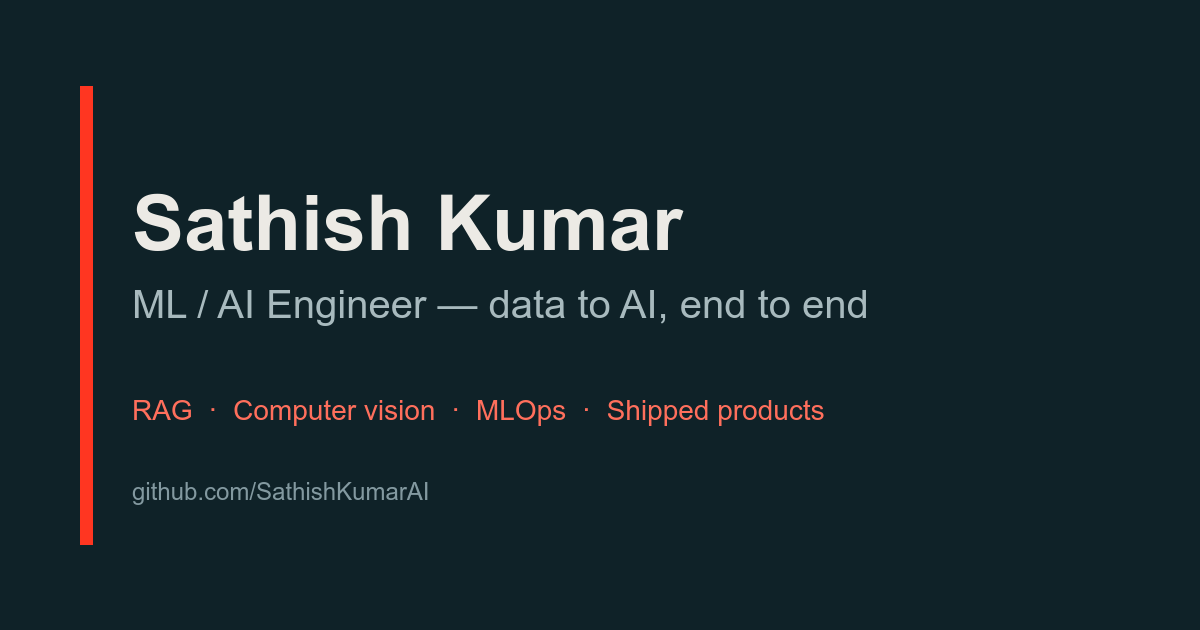
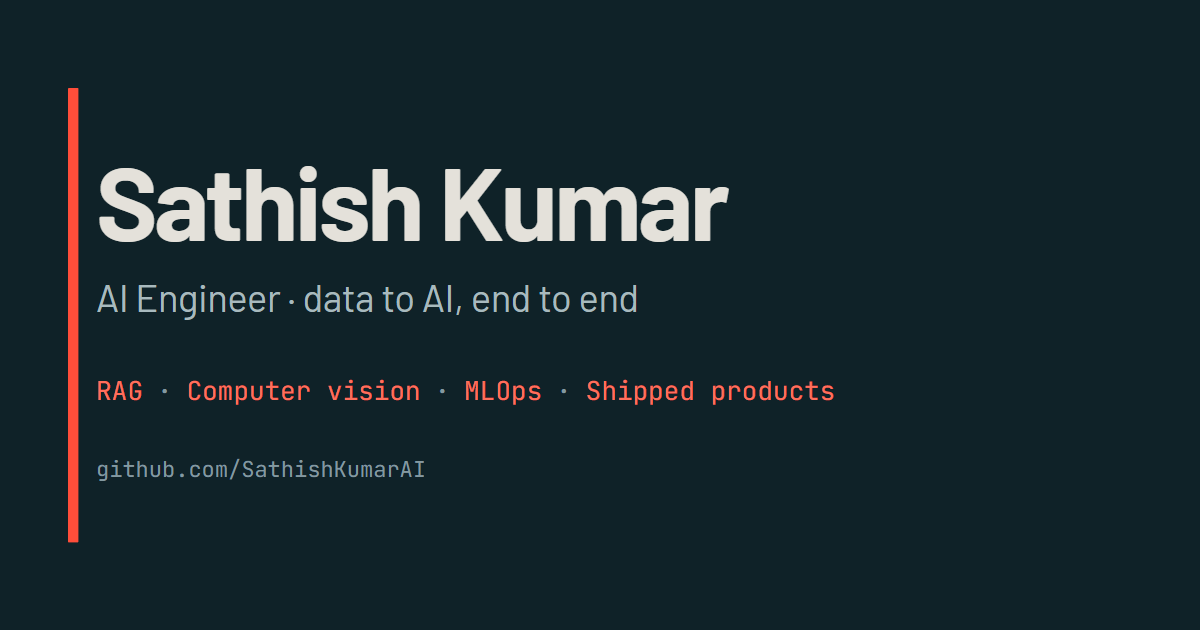
refactor(identity): one title everywhere, AI Engineer, and a regenerable og card
The title was already decided in ee1eebb: "AI Engineer", confirmed by the
owner. It had only reached `role` in constants, so eleven other places still
said "ML / AI Engineer" and the site introduced itself two different ways
depending on where you looked.

Now one string: document title, og:title, og:image:alt, JSON-LD jobTitle and
description, the noscript fallback, the hero lede, the navbar identity,
llms.txt, and both name and description in site.webmanifest. Zero occurrences
of "ML / AI" left anywhere in src, index.html, public or the docs.

Two places deliberately keep the wider wording, because they are not the title
and narrowing them would cost real inbound:

- `Contact.jsx` still reads "Open to data engineering, data science, ML, and AI
  engineering roles". That sentence enumerates four disciplines he will take
  work in. What he calls himself and what he will be hired for are different
  decisions, and this is the one place the second one is stated.
- `constants.openTo` did change, to "AI engineering roles", because it sits in
  the same block as `role` and reads as identity rather than as breadth.

The social card had to be rebuilt, and the reason is the interesting part. A
grep cannot read a PNG. `public/og.png` had "ML / AI Engineer" painted into it
and no source anywhere in the repo, so every string on the site could be
updated, verified, and shipped while the image every link preview shows kept
[…]

Changed region(s): [[0.0308, 0.1206, 0.74, 0.8746]]

diff --git a/3d_portfolio/docs/og-card.html b/3d_portfolio/docs/og-card.html
@@ -1,0 +1,108 @@
+<!doctype html>
+<html lang="en">
+<head>
+<meta charset="utf-8" />
+<title>og:image source</title>
+<!--
+  SOURCE FOR public/og.png. Not served, not built, not linked from the app.
+
+  The old og.png had no source in the repo, so when the title changed from
+  "ML / AI Engineer" to "AI Engineer" every string on the site updated and the
+  social card kept the old one, silently, because a grep cannot read a PNG.
+  This file is the fix: the card is regenerable.
+
+  To regenerate:
+    1. open this file in a browser
+    2. capture the page at exactly 1200x630, no device-pixel-ratio scaling
+    3. save over 3d_portfolio/public/og.png
+    4. check index.html still says og:image:width 1200 / og:image:height 630
+
+  Colours are the dark-theme tokens from src/index.css, hard-coded because this
+  page is not part of the app and must render standalone with no build step.
+  Type is Barlow and JetBrains Mono, same as the site, from Google Fonts.
+-->
+<link rel="preconnect" href="https://fonts.googleapis.com" />
+<link rel="preconnect" href="https://fonts.gstatic.com" crossorigin />
+<link href="https://fonts.googleapis.com/css2?family=Barlow:wght@400;500;600;700&family=JetBrains+Mono:wght@400;500&display=swap" rel="stylesheet" />
+<style>
+  html, body {
+    width: 1200px;
+    height: 630px;
+    margin: 0;
+    padding: 0;
+    overflow: hidden;
+  }
+  body {
+    /* --c-primary, dark theme */
+    background: #0f2228;
+    font-family: "Barlow", system-ui, sans-serif;
+    -webkit-font-smoothing: antialiased;
+  }
+  .card {
+    width: 1200px;
+    height: 630px;
+    box-sizing: border-box;
+    padding: 88px 96px;
+    display: flex;
+    flex-direction: column;
+    justify-content: center;
+    position: relative;
+  }
+  /* The accent bar. --c-accent at full strength: a fill, which is the only
+     role this token has. */
+  .bar {
+    position: absolute;
+    left: 68px;
+    top: 88px;
+    bottom: 88px;
+    width: 10px;
+    background: #ff4e3a;
+    border-radius: 1px;
+  }
+  h1 {
+    margin: 0;
+    font-size: 104px;
+    font-weight: 700;
+    letter-spacing: -0.03em;
+    line-height: 1;
+    color: #e4e1da; /* --c-text */
+  }
+  .sub {
+    margin: 22px 0 0;
+    font-size: 38px;
+    font-weight: 400;
+    letter-spacing: -0.01em;
+    color: #a8babe; /* --c-secondary */
+  }
+  .terms {
+    margin: 54px 0 0;
+    font-family: "JetBrains Mono", ui-monospace, monospace;
+    font-size: 26px;
+    color: #ff6f5c; /* --c-accent-ink: the accent's legible-as-text role */
+  }
+  .terms .dot {
+    color: #8399a0; /* --c-faint */
+    padding: 0 14px;
+  }
+  .url {
+    margin: 46px 0 0;
+    font-family: "JetBrains Mono", ui-monospace, monospace;
+    font-size: 22px;
+    color: #8399a0; /* --c-faint */
+  }
+</style>
+</head>
+<body>
+  <div class="card">
+    <div class="bar"></div>
+    <h1>Sathish Kumar</h1>
+    <!-- Interpunct, not an em dash: the house style dropped long dashes and the
+         old card was the last place one survived. -->
+    <p class="sub">AI Engineer &middot; data to AI, end to end</p>
+    <p class="terms">
+      RAG<span class="dot">&middot;</span>Computer vision<span class="dot">&middot;</span>MLOps<span class="dot">&middot;</span>Shipped products
+    </p>
+    <p class="url">github.com/SathishKumarAI</p>
+  </div>
+</body>
+</html>

diff --git a/3d_portfolio/index.html b/3d_portfolio/index.html
@@ -22,7 +22,7 @@
       })();
     </script>
 
-    <title>Sathish Kumar: ML / AI Engineer</title>
+    <title>Sathish Kumar: AI Engineer</title>
     <meta
       name="description"
       content="I take a real problem from the data and the model to a working interface, RAG, computer vision, and shipped products across the data-to-AI stack."
@@ -39,7 +39,7 @@
 
     <!-- Open Graph / Twitter -->
     <meta property="og:type" content="website" />
-    <meta property="og:title" content="Sathish Kumar: ML / AI Engineer" />
+    <meta property="og:title" content="Sathish Kumar: AI Engineer" />
     <meta
       property="og:description"
       content="Data to AI, end to end. RAG, computer vision, and shipped products."
@@ -48,7 +48,7 @@
     <meta property="og:image" content="/og.png" />
     <meta property="og:image:width" content="1200" />
     <meta property="og:image:height" content="630" />
-    <meta property="og:image:alt" content="Sathish Kumar: ML / AI Engineer" />
+    <meta property="og:image:alt" content="Sathish Kumar: AI Engineer" />
     <meta name="twitter:card" content="summary_large_image" />
     <meta name="twitter:image" content="/og.png" />
     <!-- TODO at deploy: make og:image, twitter:image and og:url ABSOLUTE.
@@ -67,8 +67,8 @@
         "@context": "https://schema.org",
         "@type": "Person",
         "name": "Sathish Kumar",
-        "jobTitle": "ML / AI Engineer",
-        "description": "ML / AI engineer working across the full data-to-AI stack: data engineering, data science, machine learning and AI engineering. The work runs offline where it can, grounds its answers in real sources, and ships as something you can try in a minute.",
+        "jobTitle": "AI Engineer",
+        "description": "AI engineer working across the full data-to-AI stack: data engineering, data science, machine learning and AI engineering. The work runs offline where it can, grounds its answers in real sources, and ships as something you can try in a minute.",
         "url": "https://github.com/SathishKumarAI",
         "image": "/og.png",
         "email": "mailto:sathishkumar786.ml@gmail.com",
@@ -117,7 +117,7 @@
     <noscript>
       <div style="max-width:40rem;margin:12vh auto;padding:0 1.5rem;font-family:Georgia,serif;line-height:1.6;color:#1b3139">
         <h1 style="font-size:2rem;margin:0 0 .5rem">Sathish Kumar</h1>
-        <p style="margin:0 0 1rem"><strong>ML / AI engineer</strong>, data to AI, end to end. RAG,
+        <p style="margin:0 0 1rem"><strong>AI engineer</strong>, data to AI, end to end. RAG,
           computer vision, and products shipped offline-first, cited and evaluated.</p>
         <p style="margin:0">
           <a href="mailto:sathishkumar786.ml@gmail.com">sathishkumar786.ml@gmail.com</a> ·

diff --git a/3d_portfolio/src/components/Hero.jsx b/3d_portfolio/src/components/Hero.jsx
@@ -45,7 +45,7 @@ const Hero = () => {
           variants={rise}
           className="mt-7 font-sans text-secondary text-[clamp(1rem,1.6vw,1.3rem)] leading-[1.55] max-w-xl"
         >
-          ML / AI engineer across the data-to-AI stack. Retrieval that cites the
+          AI engineer across the data-to-AI stack. Retrieval that cites the
           passage it used, vision that trains where the data already lives, and
           results reported as measured, including the ones that came back
           negative.

diff --git a/3d_portfolio/src/components/Navbar.jsx b/3d_portfolio/src/components/Navbar.jsx
@@ -87,7 +87,7 @@ const Navbar = () => {
           </span>
           <p className="text-white-100 font-mono text-[14px] tracking-tight flex items-center">
             Sathish
-            <span className="sm:inline hidden text-faint">&nbsp;· ML / AI Engineer</span>
+            <span className="sm:inline hidden text-faint">&nbsp;· AI Engineer</span>
           </p>
         </a>
 

diff --git a/3d_portfolio/src/constants/index.js b/3d_portfolio/src/constants/index.js
@@ -29,7 +29,7 @@ export const status = {
   // reads "Machine Learning Engineer | LLMs | MLOps", but that is a headline,
   // not a job title, the two disagreed on the same page until this was settled.
   role: "AI Engineer",
-  openTo: "ML / AI engineering roles",
+  openTo: "AI engineering roles",
   where: "United States: on-site, hybrid or remote",
 };
 
